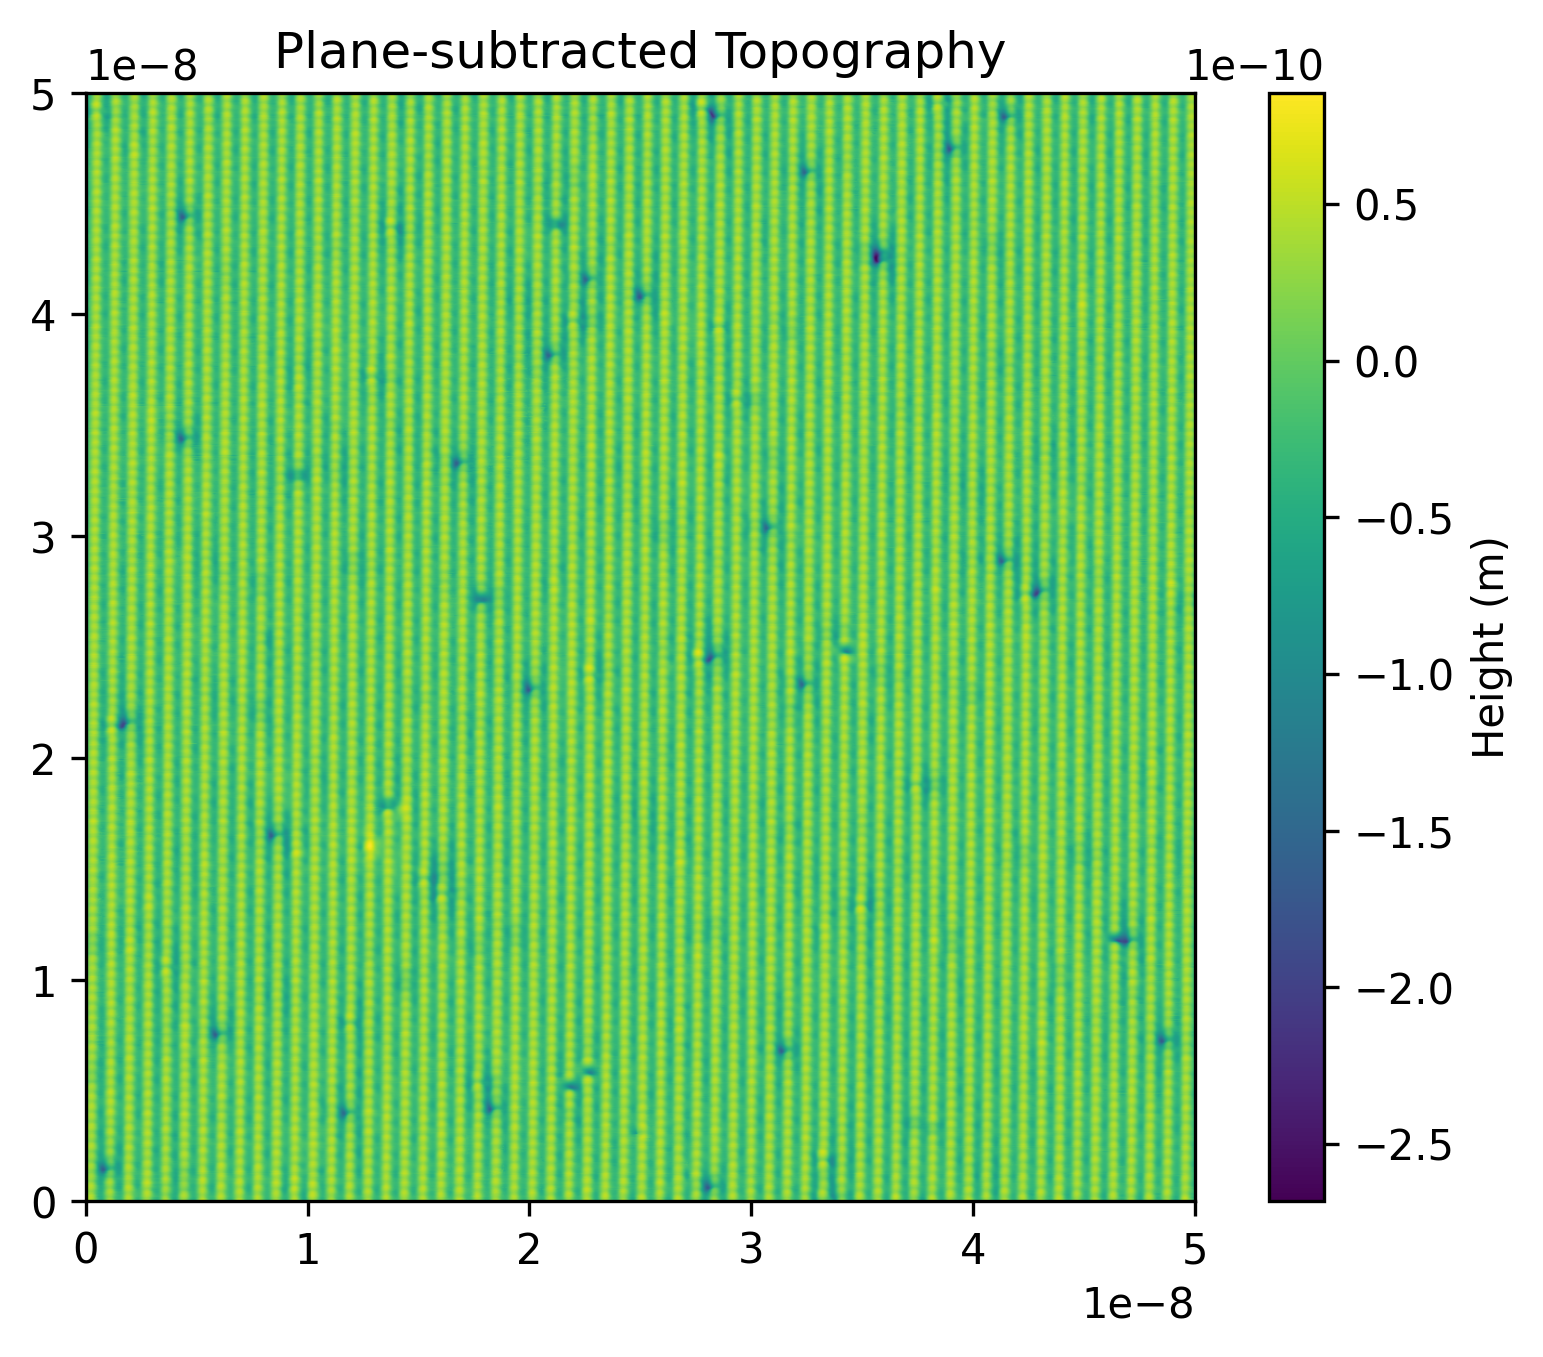
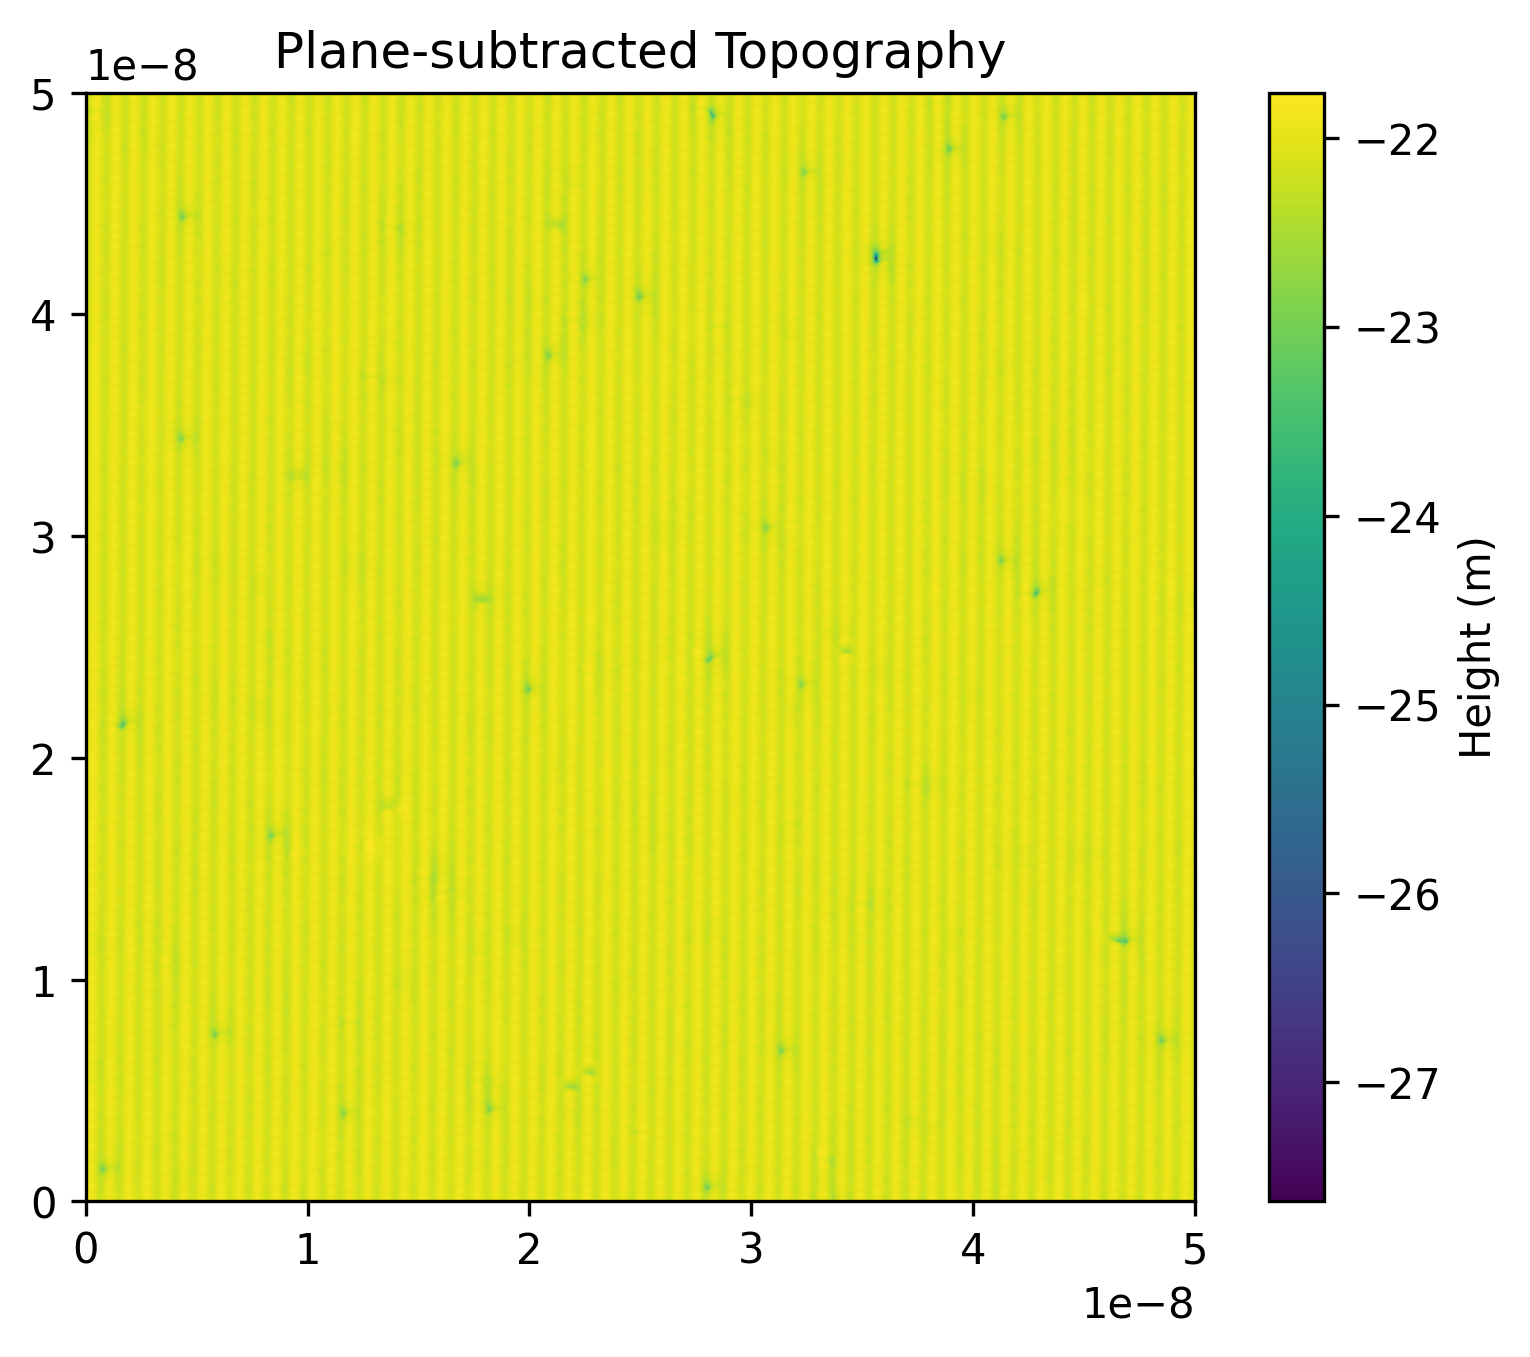
type 2 vacanies

diff --git a/experiment_scripts/post_cleanup_vacancies.py b/experiment_scripts/post_cleanup_vacancies.py
@@ -18,9 +18,16 @@ vacancy_coords = [
     (574, 500), (577, 1002), (660, 477), (663, 949), (729, 870), (627, 620),
     (797, 971), (844, 591), (847, 1000), (877, 560), (958, 239), (993, 147), (641, 138)
 ]
-
+vacancy_coords_type2 = [(195, 669),
+(365, 555),
+(279, 366),
+(446, 105),
+(463, 120),
+(434, 902),
+(700, 508)]
 
 aligned_windows = []
+aligned_windows_type2 = []
 
 for x0, y0 in vacancy_coords:
 
@@ -44,6 +51,24 @@ for x0, y0 in vacancy_coords:
     if window.shape == (window_size, window_size):
         aligned_windows.append(window)
 
+    # Process type 2 vacancies
+    for x0, y0 in vacancy_coords_type2:
+        x_min = x0 - half
+        x_max = x0 + half
+        y_min = y0 - half
+        y_max = y0 + half
+
+        if (
+            x_min < 0 or x_max > z_flat.shape[1] or
+            y_min < 0 or y_max > z_flat.shape[0]
+        ):
+            print(f"Skipping type 2 vacancy at ({x0}, {y0}) - too close to edge")
+            continue
+
+        window = z_flat[y_min:y_max, x_min:x_max]
+        if window.shape == (window_size, window_size):
+            aligned_windows_type2.append(window)
+
 aligned_windows = np.array(aligned_windows)
 
 print(f"Number of aligned vacancies used: {len(aligned_windows)}")
@@ -53,6 +78,11 @@ fig_topo, ax_topo = plt.subplots()
 ax_topo.imshow(z_flat, origin="lower", cmap="viridis")
 
 # Overlay circles at vacancy coordinates
+
+# For legend: plot one invisible line for each type
+legend_type1, = ax_topo.plot([], [], color="red", linewidth=1, label="Type 1 Vacancy")
+legend_type2, = ax_topo.plot([], [], color="cyan", linewidth=1, label="Type 2 Vacancy")
+
 for x_pix, y_pix in vacancy_coords:
     if 0 <= x_pix < z_flat.shape[1] and 0 <= y_pix < z_flat.shape[0]:
         theta = np.linspace(0, 2 * np.pi, 100)
@@ -62,22 +92,71 @@ for x_pix, y_pix in vacancy_coords:
     else:
         print(f"Skipping out-of-bounds circle at ({x_pix}, {y_pix})")
 
+# Overlay circles for type 2 vacancies (different color)
+for x_pix, y_pix in vacancy_coords_type2:
+    if 0 <= x_pix < z_flat.shape[1] and 0 <= y_pix < z_flat.shape[0]:
+        theta = np.linspace(0, 2 * np.pi, 100)
+        circle_x = x_pix + 8 * np.cos(theta)
+        circle_y = y_pix + 8 * np.sin(theta)
+        ax_topo.plot(circle_x, circle_y, color="cyan", linewidth=1)
+    else:
+        print(f"Skipping out-of-bounds type 2 circle at ({x_pix}, {y_pix})")
+
 ax_topo.set_title("Topograph with Vacancy Overlays")
 fig_topo.colorbar(ax_topo.images[0], ax=ax_topo, label="Height (m)")
+# Add legend outside the plot (only one entry per type)
+fig_topo.legend([legend_type1, legend_type2], ["Type 1 Vacancy", "Type 2 Vacancy"], loc='lower center', bbox_to_anchor=(0.5, -0.12), ncol=2)
 plt.savefig("experiment_output/vacancy_overlays.png", bbox_inches="tight", dpi=300)
+plt.show()
+
+# Save zoomed-in version
+fig_zoom, ax_zoom = plt.subplots()
+ax_zoom.imshow(z_flat, origin="lower", cmap="viridis")
+# Overlay circles for type 1
+for x_pix, y_pix in vacancy_coords:
+    if 0 <= x_pix < z_flat.shape[1] and 0 <= y_pix < z_flat.shape[0]:
+        theta = np.linspace(0, 2 * np.pi, 100)
+        circle_x = x_pix + 8 * np.cos(theta)
+        circle_y = y_pix + 8 * np.sin(theta)
+        ax_zoom.plot(circle_x, circle_y, color="red", linewidth=1)
+# Overlay circles for type 2
+for x_pix, y_pix in vacancy_coords_type2:
+    if 0 <= x_pix < z_flat.shape[1] and 0 <= y_pix < z_flat.shape[0]:
+        theta = np.linspace(0, 2 * np.pi, 100)
+        circle_x = x_pix + 8 * np.cos(theta)
+        circle_y = y_pix + 8 * np.sin(theta)
+        ax_zoom.plot(circle_x, circle_y, color="cyan", linewidth=1)
+ax_zoom.set_title("Topograph with Vacancy Overlays (Zoomed)")
+fig_zoom.colorbar(ax_zoom.images[0], ax=ax_zoom, label="Height (m)")
+# Add legend below
+legend_type1_zoom, = ax_zoom.plot([], [], color="red", linewidth=1, label="Type 1 Vacancy")
+legend_type2_zoom, = ax_zoom.plot([], [], color="cyan", linewidth=1, label="Type 2 Vacancy")
+fig_zoom.legend([legend_type1_zoom, legend_type2_zoom], ["Type 1 Vacancy", "Type 2 Vacancy"], loc='lower center', bbox_to_anchor=(0.5, -0.12), ncol=2)
+ax_zoom.set_xlim(150, 500)
+ax_zoom.set_ylim(500, 800)
+plt.savefig("experiment_output/vacancy_overlays_zoomed.png", bbox_inches="tight", dpi=300)
 plt.show()
 
 
 average_defect = np.mean(aligned_windows, axis=0)
 
+average_defect_type2 = np.mean(aligned_windows_type2, axis=0) if len(aligned_windows_type2) > 0 else None
+
 
 fig, ax = plt.subplots()
 im = ax.imshow(average_defect, origin="lower", cmap="viridis")
 
-# Mark common origin (center pixel)
-ax.scatter(half, half, color="red", s=60)
 
-ax.set_title("Common-Origin Averaged Vacancy")
+ax.set_title("Common-Origin Averaged Type 1 Vacancy")
 fig.colorbar(im, ax=ax, label="Height (m)")
-plt.savefig("experiment_output/average_defect.png", bbox_inches="tight", dpi=300)
+plt.savefig("experiment_output/average_defect_type_1.png", bbox_inches="tight", dpi=300)
 plt.show()
+
+# Plot for type 2 vacancies
+if average_defect_type2 is not None:
+    fig2, ax2 = plt.subplots()
+    im2 = ax2.imshow(average_defect_type2, origin="lower", cmap="viridis")
+    ax2.set_title("Common-Origin Averaged Type 2 Vacancy")
+    fig2.colorbar(im2, ax=ax2, label="Height (m)")
+    plt.savefig("experiment_output/average_defect_type2.png", bbox_inches="tight", dpi=300)
+    plt.show()

diff --git a/experiment_scripts/topograph_read.py b/experiment_scripts/topograph_read.py
@@ -49,22 +49,15 @@ z_flat = Zvals - plane
 
 plt.figure()
 plt.imshow(
-    z_flat,
+    np.log(z_flat-np.nanmin(z_flat)+1e-12),  # log scale for better contrast, shift to avoid log(0)
     extent=[x.min(), x.max(), y.min(), y.max()],
     origin="lower",
-    cmap="viridis"
+    cmap="plasma"
 )
 plt.colorbar(label="Height (m)")
 plt.gca().set_aspect("equal")
-plt.title("Plane-subtracted Topography")
-flat_plot_path = os.path.join(output_dir, "plane_subtracted_topography.png")
+plt.title("Log contrast Topography")
+flat_plot_path = os.path.join(output_dir, "log_contrast_topography.png")
 plt.savefig(flat_plot_path, bbox_inches="tight", dpi=300)
 plt.close()
-
-
-fft = np.fft.fftshift(np.fft.fft2(z_flat))
-fft_mag = np.abs(fft)
-
-plt.imshow(np.log(fft_mag))
-plt.savefig(os.path.join(output_dir, "fft_magnitude.png"), bbox_inches="tight", dpi=300)
 
